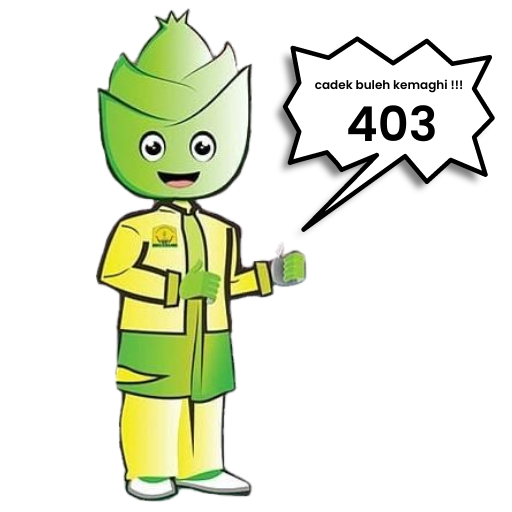
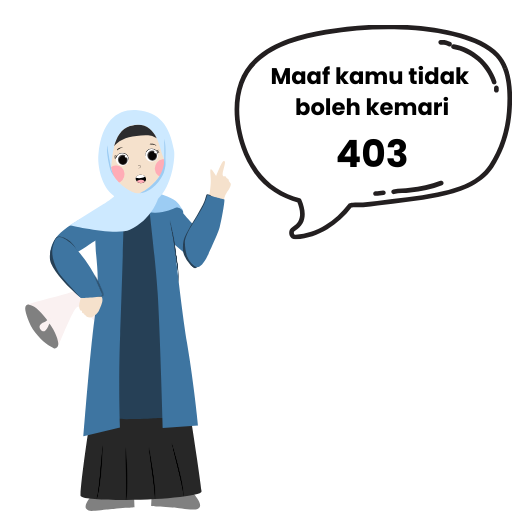
update user view

diff --git a/resources/views/errors/403.blade.php b/resources/views/errors/403.blade.php
@@ -3,21 +3,24 @@
 @endphp
 
 @extends('layouts.main')
-  @section('container')
+@section('container')
     <section class="notfound">
-      <div class="container my-lg-5 py-lg-5 ">
-        <div class="row justify-content-center px-5">
-          <div class="col-md-5  align-self-center">
-            <img src="{{ url('img/403.png') }}"  class="img-fluid" alt="sad">
-          </div>
-          <div class="col-md-6  align-self-center text-center text-md-start">
-            <h1>403</h1>
-            <h2>UPPSSS !!.</h2>
-            <p class="text-muted">Wkwk mau ngapai? halaman halaman ini gaboleh diakses ya. Silahkan hubungi kami apabila ini merupakan kesalahan
-            </p>
-            <a href="/" class="text-warning"><p><i class="bi bi-arrow-left"></i> Back To Home</p></a>
-          </div>
+        <div class="container my-lg-5 py-lg-5 ">
+            <div class="row justify-content-center px-5">
+                <div class="col-md-5  align-self-center">
+                    <img src="{{ url('img/403.png') }}" class="img-fluid" alt="sad">
+                </div>
+                <div class="col-md-6  align-self-center text-center text-md-start">
+                    <h1>403</h1>
+                    <h2>UPPSSS !!.</h2>
+                    <p class="text-muted">Maaf kak, halaman halaman ini gaboleh diakses ya. Silahkan hubungi kami
+                        apabila ini merupakan kesalahan
+                    </p>
+                    <a href="/" class="text-primary">
+                        <p><i class="bi bi-arrow-left"></i> Back To Home</p>
+                    </a>
+                </div>
+            </div>
         </div>
-      </div>
     </section>
-  @endsection
+@endsection

diff --git a/resources/views/errors/404.blade.php b/resources/views/errors/404.blade.php
@@ -3,21 +3,24 @@
 @endphp
 
 @extends('layouts.main')
-  @section('container')
+@section('container')
     <section class="notfound">
-      <div class="container my-lg-5 py-lg-5 ">
-        <div class="row justify-content-center px-5">
-          <div class="col-md-5  align-self-center">
-            <img src="{{ url('img/404.png') }}"  class="img-fluid" alt="sad">
-          </div>
-          <div class="col-md-6  align-self-center text-center text-md-start">
-            <h1>404</h1>
-            <h2>UPPSSS !!.</h2>
-            <p class="text-muted">Ga ada apa apa disini ngab, halaman tidak tersedia. Silahkan hubungi kami apabila ini merupakan kesalahan
-            </p>
-            <a href="/" class="text-warning"><p><i class="bi bi-arrow-left"></i> Back To Home</p></a>
-          </div>
+        <div class="container my-lg-5 py-lg-5 ">
+            <div class="row justify-content-center px-5">
+                <div class="col-md-5  align-self-center">
+                    <img src="{{ url('img/404.png') }}" class="img-fluid" alt="sad">
+                </div>
+                <div class="col-md-6  align-self-center text-center text-md-start">
+                    <h1>404</h1>
+                    <h2>UPPSSS !!.</h2>
+                    <p class="text-muted">Maaf kak, halaman ini tidak tersedia. Silahkan hubungi kami apabila
+                        ini merupakan kesalahan
+                    </p>
+                    <a href="/" class="text-primary">
+                        <p><i class="bi bi-arrow-left"></i> Back To Home</p>
+                    </a>
+                </div>
+            </div>
         </div>
-      </div>
     </section>
-  @endsection
+@endsection
